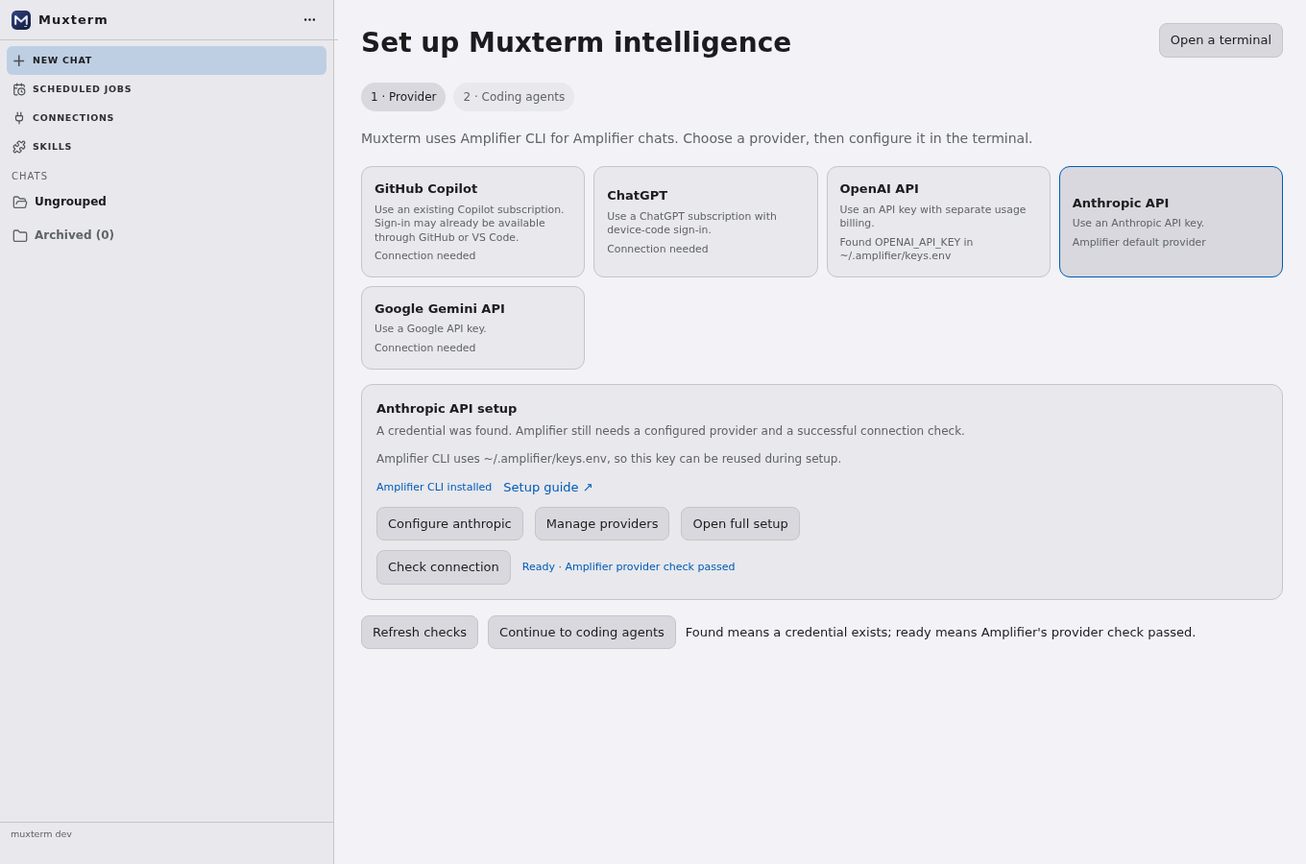
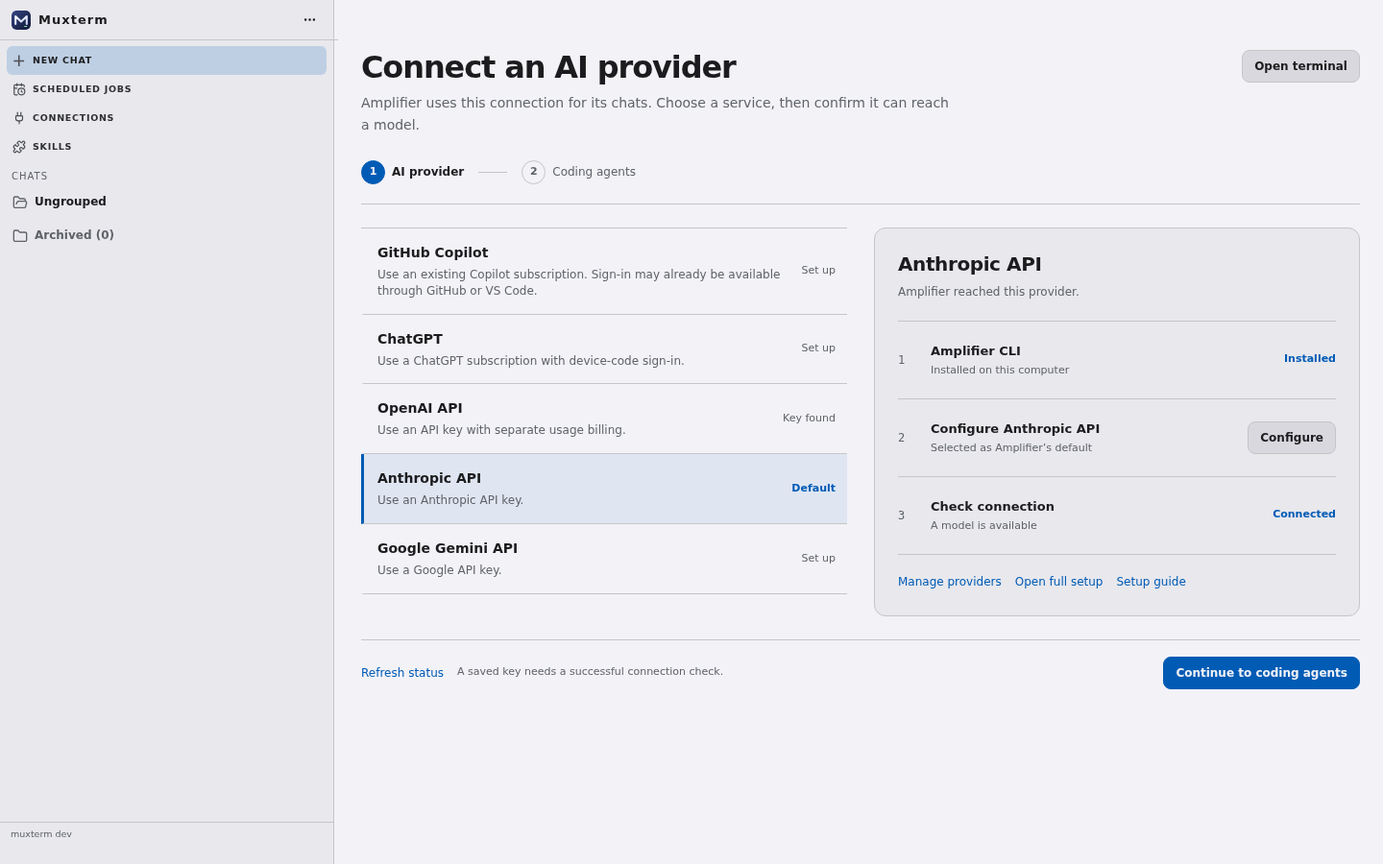
Refine first-run screens as a setup workbench

diff --git a/web/src/components/mux-new-chat.ts b/web/src/components/mux-new-chat.ts
@@ -21,9 +21,9 @@ const AI_PROVIDERS = [
 const SETUP_AGENTS = [
   { harness:'codex', name:'Codex', command:'curl -fsSL https://chatgpt.com/codex/install.sh | sh', login:'codex login', docs:'https://learn.chatgpt.com/docs/codex/cli' },
   { harness:'claude', name:'Claude Code', command:'curl -fsSL https://claude.ai/install.sh | bash', login:'claude', docs:'https://code.claude.com/docs/en/setup' },
-  { harness:'opencode', name:'OpenCode · ACP', command:'curl -fsSL https://opencode.ai/install | bash', login:'opencode auth login', docs:'https://opencode.ai/docs/' },
-  { harness:'pi', name:'Pi · ACP', command:'npm install -g @mariozechner/pi-coding-agent pi-acp', login:'pi', docs:'https://github.com/svkozak/pi-acp' },
-  { harness:'deepseek', name:'DeepSeek Harness · ACP', command:'npm install -g @deepseek-ai/dsh', login:'dsh web', docs:'https://github.com/deepseek-ai/deepseek-harness' },
+  { harness:'opencode', name:'OpenCode', command:'curl -fsSL https://opencode.ai/install | bash', login:'opencode auth login', docs:'https://opencode.ai/docs/' },
+  { harness:'pi', name:'Pi', command:'npm install -g @mariozechner/pi-coding-agent pi-acp', login:'pi', docs:'https://github.com/svkozak/pi-acp' },
+  { harness:'deepseek', name:'DeepSeek Harness', command:'npm install -g @deepseek-ai/dsh', login:'dsh web', docs:'https://github.com/deepseek-ai/deepseek-harness' },
   { harness:'amplifier', name:'Amplifier CLI', command:'export PATH="$HOME/.local/bin:$PATH"; command -v uv >/dev/null 2>&1 || curl -LsSf https://astral.sh/uv/install.sh | sh; uv tool install git+https://github.com/microsoft/amplifier', login:'export PATH="$HOME/.local/bin:$PATH"; amplifier init', docs:'https://github.com/microsoft/amplifier/blob/main/docs/USER_ONBOARDING.md' },
 ] as const;
 type Attachment = { localId: string; file: File; id?: string; kind?: string; preview?: string; uploading: boolean; error?: string };
@@ -94,10 +94,6 @@ export class MuxNewChat extends LitElement {
     .utility-drawer > header button { border:0; border-radius:6px; padding:3px 8px; background:transparent; color:var(--chrome-text-bright); }
     .utility-drawer > header button:hover { background:var(--chrome-hover); }
     .utility-drawer mux-sdk-utility { flex:1; min-height:0; }
-    .setup-heading { display:flex; align-items:start; justify-content:space-between; gap:14px; }
-    .setup-heading .setup-refresh { flex:none; margin:0; }
-    .setup-explain { max-width:760px; margin:0 0 17px; padding:10px 12px; border-radius:9px; background:var(--chrome-bar); color:var(--chrome-text-dim); font-size:12px; }
-    .setup-explain strong { color:var(--chrome-text-bright); }
     .composer-tools { display:flex; justify-content:flex-end; width:min(100%,780px); margin:0 0 12px; }
     .composer-tools button { padding:7px 11px; border:1px solid var(--chrome-border); border-radius:8px; background:var(--chrome-bar); color:var(--chrome-text-bright); }
     .main { flex:1; min-height:0; display:flex; flex-direction:column; justify-content:center; align-items:center; padding:24px; overflow:auto; }
@@ -174,34 +170,69 @@ export class MuxNewChat extends LitElement {
     .send:focus-visible { outline:2px solid var(--chrome-accent,#9bb8f7); outline-offset:2px; }
     .send:disabled { opacity:.4; cursor:default; }
     .error { margin:10px 0; color:var(--chrome-danger); }
-    .setup-intro { margin:0 0 18px; color:var(--chrome-text-dim); font-size:14px; }
-    .setup-steps { display:flex; gap:8px; margin:0 0 18px; color:var(--chrome-text-dim); font-size:12px; }
-    .setup-steps span { padding:6px 10px; border-radius:999px; background:var(--chrome-bar); }
-    .setup-steps .current { background:var(--chrome-hover); color:var(--chrome-text-bright); }
-    .provider-list { display:grid; grid-template-columns:repeat(auto-fit,minmax(220px,1fr)); gap:9px; }
-    .provider-choice { width:100%; padding:13px; border:1px solid var(--chrome-border); border-radius:11px; background:var(--chrome-bar); color:var(--chrome-text-bright); text-align:left; }
-    .provider-choice[aria-pressed="true"] { border-color:var(--chrome-accent); background:var(--chrome-hover); }
-    .provider-choice strong,.provider-choice small { display:block; }
-    .provider-choice small { margin-top:5px; color:var(--chrome-text-dim); line-height:1.35; }
-    .provider-setup { margin-top:15px; padding:15px; border:1px solid var(--chrome-border); border-radius:12px; background:var(--chrome-bar); }
-    .provider-setup p { margin:5px 0 11px; color:var(--chrome-text-dim); font-size:12px; }
-    .provider-setup input { max-width:450px; margin:6px 0; }
-    .provider-setup .setup-actions { flex-wrap:wrap; }
-    .setup-list { display:grid; grid-template-columns:repeat(auto-fit,minmax(280px,1fr)); gap:10px; }
-    .setup-card { padding:15px; border:1px solid var(--chrome-border); border-radius:13px; background:var(--chrome-bar); }
-    .setup-card h2 { margin:0 0 8px; font-size:15px; }
-    .setup-card-heading { display:flex; align-items:center; justify-content:space-between; gap:8px; }
-    .setup-status { flex:none; color:var(--chrome-text-dim); font-size:11px; }
-    .setup-status.ready { color:var(--chrome-accent); }
-    .setup-card code { display:block; min-height:42px; padding:8px; border-radius:7px; overflow-wrap:anywhere; background:var(--chrome-body); color:var(--chrome-text-bright); font:12px/1.45 ui-monospace,SFMono-Regular,monospace; }
-    .setup-card p { margin:9px 0; color:var(--chrome-text-dim); font-size:12px; }
-    .setup-actions { display:flex; align-items:center; gap:12px; margin-top:10px; }
-    .setup-footer { display:flex; flex-wrap:wrap; gap:10px; align-items:center; margin-top:16px; }
-    .setup-actions button,.setup-refresh { padding:7px 11px; border:1px solid var(--chrome-border); border-radius:8px; background:var(--chrome-hover); color:var(--chrome-text-bright); }
-    .setup-actions button:disabled,.setup-refresh:disabled { opacity:.45; cursor:default; }
-    .setup-actions a { color:var(--chrome-accent); text-decoration:none; }
-    .setup-refresh { margin-top:16px; }
-    .setup-footer .setup-refresh { margin-top:0; }
+    .setup-shell { max-width:1080px; margin:28px auto 34px; }
+    .setup-header { display:flex; align-items:flex-start; justify-content:space-between; gap:24px; margin-bottom:26px; }
+    .setup-header h1 { margin:0 0 8px; font-size:32px; font-weight:650; letter-spacing:-.035em; line-height:1.13; }
+    .setup-lead { max-width:620px; margin:0; color:var(--chrome-text-dim); font-size:14px; line-height:1.6; }
+    .setup-progress { display:flex; align-items:center; gap:15px; padding:0 0 20px; margin-bottom:24px; border-bottom:1px solid var(--chrome-border); color:var(--chrome-text-dim); font-size:12px; }
+    .setup-progress span { display:inline-flex; align-items:center; gap:7px; }
+    .setup-progress b { display:grid; place-items:center; width:23px; height:23px; border:1px solid var(--chrome-border); border-radius:50%; font-size:11px; font-weight:600; }
+    .setup-progress .current { color:var(--chrome-text-bright); font-weight:600; }
+    .setup-progress .current b,.setup-progress .done b { border-color:var(--chrome-accent); background:var(--chrome-accent); color:var(--chrome-body); }
+    .setup-progress i { width:30px; height:1px; background:var(--chrome-border); }
+    .setup-action { display:inline-flex; align-items:center; justify-content:center; min-height:34px; padding:7px 12px; border:1px solid var(--chrome-border); border-radius:8px; background:var(--chrome-hover); color:var(--chrome-text-bright); font-size:12px; font-weight:550; white-space:nowrap; }
+    .setup-action:hover:not(:disabled) { border-color:var(--chrome-accent); }
+    .setup-action:focus-visible,.provider-choice:focus-visible,.setup-link:focus-visible { outline:2px solid var(--chrome-accent); outline-offset:2px; }
+    .setup-action:disabled { opacity:.5; cursor:default; }
+    .setup-action.primary { border-color:var(--chrome-accent); background:var(--chrome-accent); color:var(--chrome-body); font-weight:650; }
+    .setup-link { padding:4px 0; border:0; background:transparent; color:var(--chrome-accent); font-size:12px; text-decoration:none; }
+    .setup-link:hover { text-decoration:underline; }
+    .provider-workspace { display:grid; grid-template-columns:repeat(auto-fit,minmax(min(100%,330px),1fr)); gap:28px; align-items:start; }
+    .provider-workspace.compact { grid-template-columns:minmax(0,1fr); gap:14px; }
+    .provider-picker { display:flex; align-items:center; gap:12px; color:var(--chrome-text-dim); font-size:12px; }
+    .provider-picker select { width:min(100%,280px); height:34px; }
+    .provider-browser { border-top:1px solid var(--chrome-border); }
+    .provider-choice { display:grid; grid-template-columns:minmax(0,1fr) auto; gap:4px 12px; align-items:center; width:100%; padding:15px 12px 15px 14px; border:0; border-bottom:1px solid var(--chrome-border); border-left:3px solid transparent; border-radius:0; background:transparent; color:var(--chrome-text-bright); text-align:left; }
+    .provider-choice:hover { background:color-mix(in srgb,var(--chrome-accent) 5%,var(--chrome-body)); }
+    .provider-choice[aria-pressed="true"] { border-left-color:var(--chrome-accent); background:color-mix(in srgb,var(--chrome-accent) 8%,var(--chrome-body)); }
+    .provider-choice strong { font-size:14px; font-weight:620; }
+    .provider-choice .detail { grid-column:1; color:var(--chrome-text-dim); font-size:12px; line-height:1.4; }
+    .provider-choice .provider-status { grid-column:2; grid-row:1 / 3; max-width:115px; color:var(--chrome-text-dim); font-size:11px; line-height:1.3; text-align:right; }
+    .provider-choice .provider-status.active { color:var(--chrome-accent); font-weight:650; }
+    .provider-setup { box-sizing:border-box; min-height:365px; padding:22px 24px; border:1px solid var(--chrome-border); border-radius:12px; background:var(--chrome-bar); }
+    .provider-setup h2 { margin:0 0 5px; font-size:20px; font-weight:650; letter-spacing:-.02em; }
+    .provider-setup p { max-width:58ch; margin:5px 0 12px; color:var(--chrome-text-dim); font-size:12px; line-height:1.55; }
+    .provider-setup .provider-note { margin:0 0 13px; }
+    .setup-sequence { margin-top:20px; border-top:1px solid var(--chrome-border); }
+    .sequence-row { display:grid; grid-template-columns:22px minmax(0,1fr) auto; gap:12px; align-items:center; min-height:58px; padding:11px 0; border-bottom:1px solid var(--chrome-border); }
+    .sequence-row .number { color:var(--chrome-text-dim); font:12px ui-monospace,SFMono-Regular,monospace; }
+    .sequence-row strong { display:block; font-size:13px; font-weight:600; }
+    .sequence-row small { display:block; margin-top:2px; color:var(--chrome-text-dim); font-size:11px; line-height:1.4; }
+    .sequence-row .setup-status { text-align:right; }
+    .provider-tools { display:flex; flex-wrap:wrap; gap:14px; align-items:center; margin-top:15px; }
+    .provider-tools a { color:var(--chrome-accent); font-size:12px; text-decoration:none; }
+    .provider-tools a:hover { text-decoration:underline; }
+    .setup-status { color:var(--chrome-text-dim); font-size:11px; }
+    .setup-status.ready { color:var(--chrome-accent); font-weight:650; }
+    .setup-footer { display:flex; flex-wrap:wrap; align-items:center; gap:14px; margin-top:24px; padding-top:17px; border-top:1px solid var(--chrome-border); }
+    .setup-footer .next { margin-left:auto; }
+    .setup-footer .hint { color:var(--chrome-text-dim); font-size:11px; }
+    .setup-list { display:flex; flex-direction:column; border-top:1px solid var(--chrome-border); }
+    .setup-card { display:grid; grid-template-columns:minmax(0,1fr) auto; gap:10px 20px; align-items:center; padding:17px 4px; border-bottom:1px solid var(--chrome-border); }
+    .setup-card-heading { display:flex; align-items:baseline; gap:12px; }
+    .setup-card h2 { margin:0; font-size:15px; font-weight:620; }
+    .setup-card p { max-width:70ch; margin:4px 0 0; color:var(--chrome-text-dim); font-size:12px; line-height:1.45; }
+    .setup-card .setup-actions { display:flex; align-items:center; gap:12px; margin:0; }
+    .setup-card .setup-actions a { color:var(--chrome-accent); font-size:12px; text-decoration:none; white-space:nowrap; }
+    .setup-card .setup-actions a:hover { text-decoration:underline; }
+    .setup-card details { margin-top:5px; color:var(--chrome-text-dim); font-size:11px; }
+    .setup-card details summary { width:fit-content; cursor:pointer; }
+    .setup-card code { display:block; max-width:70ch; margin-top:5px; overflow-wrap:anywhere; color:var(--chrome-text-bright); font:11px/1.5 ui-monospace,SFMono-Regular,monospace; }
+    .layout.with-utility .setup-header h1 { font-size:28px; }
+    .layout.with-utility .setup-card { grid-template-columns:1fr; }
+    .layout.with-utility .setup-card .setup-actions { justify-content:flex-start; }
+    @media(max-width:860px) { .setup-shell { margin-top:10px; } .setup-header h1 { font-size:27px; } .setup-card { grid-template-columns:1fr; } .setup-card .setup-actions { justify-content:flex-start; } }
+    @media(max-width:560px) { .provider-setup { padding:17px; } .sequence-row { grid-template-columns:18px minmax(0,1fr); } .sequence-row > :last-child { grid-column:2; justify-self:start; } .setup-header { gap:10px; } .setup-header .setup-action { padding:5px 7px; white-space:normal; } }
     .receipt { display:flex; align-items:center; gap:8px; margin:12px 2px 0; color:var(--chrome-text-dim,#a9b0c0); font-size:12px; }
     .receipt::before { content:''; width:7px; height:7px; border-radius:50%; background:var(--chrome-accent,#9bb8f7); animation:receipt-pulse 1.35s ease-in-out infinite; }
     @keyframes receipt-pulse { 50% { opacity:.35; transform:scale(.7); } }
@@ -348,31 +379,44 @@ export class MuxNewChat extends LitElement {
       if (this.isConnected && this.chosenAIProvider === provider) this.providerCheckError = error instanceof Error ? error.message : String(error);
     } finally { this.providerCheckBusy = false; }
   }
+  private chooseAIProvider(provider: string) {
+    this.chosenAIProvider = provider;
+    this.providerError = '';
+    this.providerChecked = '';
+    this.providerCheckError = '';
+  }
   private renderProviderSetup(): TemplateResult {
     const setup = this.amplifierProviderSetup;
     const selected = setup?.providers.find(provider => provider.id === this.chosenAIProvider);
-    return this.renderScreen(html`<div class="main setup"><div class="content">
-      <div class="setup-heading"><h1>${this.firstRun ? 'Set up Muxterm intelligence' : 'Amplifier provider'}</h1><button class="setup-refresh" @click=${() => void this.openTerminal()}>Open a terminal</button></div>
-      ${this.firstRun ? html`<div class="setup-steps"><span class="current">1 · Provider</span><span>2 · Coding agents</span></div>` : nothing}
-      <p class="setup-intro">Muxterm uses Amplifier CLI for Amplifier chats. Choose a provider, then configure it in the terminal.</p>
-      <div class="provider-list">${AI_PROVIDERS.map(provider => {
-        const state = setup?.providers.find(item => item.id === provider.id);
-        return html`<button class="provider-choice" aria-pressed=${this.chosenAIProvider === provider.id} @click=${() => { this.chosenAIProvider = provider.id; this.providerError = ''; this.providerChecked = ''; this.providerCheckError = ''; }}><strong>${provider.name}</strong><small>${provider.detail}</small><small>${setup?.primary === provider.id ? 'Amplifier default provider' : state?.source === 'environment' ? `Found ${state.envName} in Muxterm's environment` : state?.source === 'amplifier-keys' ? `Found ${state.envName} in ~/.amplifier/keys.env` : state?.source === 'oauth-cache' ? 'ChatGPT sign-in cache found' : 'Connection needed'}</small></button>`;
-      })}</div>
-      <div class="provider-setup">
-        <strong>${AI_PROVIDERS.find(provider => provider.id === this.chosenAIProvider)?.name || 'Provider'} setup</strong>
-        ${!setup ? html`<p role="status">Checking local Amplifier setup…</p>` : html`
-          <p>${selected?.source ? 'A credential was found. Amplifier still needs a configured provider and a successful connection check.' : 'Configure this provider and complete its sign-in in the terminal.'}</p>
-          ${selected?.source === 'amplifier-keys' ? html`<p>Amplifier CLI uses ~/.amplifier/keys.env, so this key can be reused during setup.</p>` : nothing}
-          ${setup.primary && setup.primary !== this.chosenAIProvider ? html`<p>Amplifier currently starts with ${setup.primary}. Use provider management to make ${this.chosenAIProvider} the default.</p>` : nothing}
-          <div class="setup-actions"><span class="setup-status ${setup.cliInstalled ? 'ready' : ''}">Amplifier CLI ${setup.cliInstalled ? 'installed' : 'needed'}</span>${!setup.cliInstalled ? html`<button @click=${() => void this.openTerminal('Install Amplifier CLI', SETUP_AGENTS.find(agent => agent.harness === 'amplifier')!.command)}>Install Amplifier CLI</button>` : nothing}<a href="https://github.com/microsoft/amplifier/blob/main/docs/USER_ONBOARDING.md" target="_blank" rel="noopener noreferrer">Setup guide ↗</a></div>
-          <div class="setup-actions"><button ?disabled=${!setup.cliInstalled} @click=${() => void this.openTerminal('Amplifier provider setup', `export PATH="$HOME/.local/bin:$PATH"; amplifier provider add ${this.chosenAIProvider} --scope global`)}>Configure ${this.chosenAIProvider}</button><button ?disabled=${!setup.cliInstalled} @click=${() => void this.openTerminal('Amplifier providers', 'export PATH="$HOME/.local/bin:$PATH"; amplifier provider manage')}>Manage providers</button><button ?disabled=${!setup.cliInstalled} @click=${() => void this.openTerminal('Amplifier setup', 'export PATH="$HOME/.local/bin:$PATH"; amplifier init')}>Open full setup</button></div>
-          <div class="setup-actions"><button ?disabled=${!setup.cliInstalled || this.providerCheckBusy} @click=${() => void this.checkAIProvider()}>${this.providerCheckBusy ? 'Checking provider…' : 'Check connection'}</button>${this.providerChecked === this.chosenAIProvider ? html`<span class="setup-status ready" role="status">Ready · Amplifier provider check passed</span>` : nothing}</div>
-          ${this.providerCheckError ? html`<p class="error" role="alert">${this.providerCheckError}</p>` : nothing}
-        `}
-        ${this.providerError ? html`<p class="error" role="alert">${this.providerError}</p>` : nothing}
+    const name = AI_PROVIDERS.find(provider => provider.id === this.chosenAIProvider)?.name || 'Provider';
+    const connected = this.providerChecked === this.chosenAIProvider;
+    return this.renderScreen(html`<div class="main setup"><div class="content setup-shell">
+      <header class="setup-header"><div><h1>${this.firstRun ? 'Connect an AI provider' : 'Amplifier provider'}</h1><p class="setup-lead">Amplifier uses this connection for its chats. Choose a service, then confirm it can reach a model.</p></div>${!this.utilityOpen ? html`<button class="setup-action" @click=${() => void this.openTerminal()}>Open terminal</button>` : nothing}</header>
+      ${this.firstRun ? html`<nav class="setup-progress" aria-label="Setup progress"><span class="current" aria-current="step"><b>1</b>AI provider</span><i aria-hidden="true"></i><span><b>2</b>Coding agents</span></nav>` : nothing}
+      <div class="provider-workspace ${this.utilityOpen ? 'compact' : ''}">
+        ${this.utilityOpen ? html`<label class="provider-picker">Provider<select aria-label="AI provider" .value=${this.chosenAIProvider} @change=${(event:Event) => this.chooseAIProvider((event.target as HTMLSelectElement).value)}>${AI_PROVIDERS.map(provider => html`<option value=${provider.id}>${provider.name}</option>`)}</select></label>` : html`<section class="provider-browser" aria-label="AI providers">${AI_PROVIDERS.map(provider => {
+          const state = setup?.providers.find(item => item.id === provider.id);
+          const isDefault = setup?.primary === provider.id;
+          const status = isDefault ? 'Default' : state?.source === 'environment' || state?.source === 'amplifier-keys' ? 'Key found' : state?.source === 'oauth-cache' ? 'Sign-in found' : 'Set up';
+          return html`<button class="provider-choice" aria-pressed=${this.chosenAIProvider === provider.id} @click=${() => this.chooseAIProvider(provider.id)}><strong>${provider.name}</strong><span class="detail">${provider.detail}</span><span class="provider-status ${isDefault ? 'active' : ''}">${status}</span></button>`;
+        })}</section>`}
+        <section class="provider-setup" aria-label=${`${name} setup`}>
+          <h2>${name}</h2>
+          ${!setup ? html`<p role="status">Checking Amplifier on this computer…</p>` : html`
+            <p class="provider-note">${connected ? 'Amplifier reached this provider.' : selected?.source === 'environment' ? `${selected.envName} is available in Muxterm’s environment.` : selected?.source === 'amplifier-keys' ? `${selected.envName} is in ~/.amplifier/keys.env. Amplifier can reuse it.` : selected?.source === 'oauth-cache' ? 'A previous ChatGPT sign-in was found.' : 'Complete setup in the terminal to connect this service.'}</p>
+            ${setup.primary && setup.primary !== this.chosenAIProvider ? html`<p>Amplifier currently starts with ${setup.primary}. Make ${this.chosenAIProvider} the default in provider management.</p>` : nothing}
+            <div class="setup-sequence">
+              <div class="sequence-row"><span class="number">1</span><div><strong>Amplifier CLI</strong><small>${setup.cliInstalled ? 'Installed on this computer' : 'Required for Amplifier chats'}</small></div>${setup.cliInstalled ? html`<span class="setup-status ready">Installed</span>` : html`<button class="setup-action" @click=${() => void this.openTerminal('Install Amplifier CLI', SETUP_AGENTS.find(agent => agent.harness === 'amplifier')!.command)}>Install</button>`}</div>
+              <div class="sequence-row"><span class="number">2</span><div><strong>Configure ${name}</strong><small>${setup.primary === this.chosenAIProvider ? 'Selected as Amplifier’s default' : 'Choose a model and sign in, if needed'}</small></div><button class="setup-action" ?disabled=${!setup.cliInstalled} @click=${() => void this.openTerminal('Amplifier provider setup', `export PATH="$HOME/.local/bin:$PATH"; amplifier provider add ${this.chosenAIProvider} --scope global`)}>Configure</button></div>
+              <div class="sequence-row"><span class="number">3</span><div><strong>Check connection</strong><small>${connected ? 'A model is available' : 'Ask Amplifier to list available models'}</small></div>${connected ? html`<span class="setup-status ready" role="status">Connected</span>` : html`<button class="setup-action" ?disabled=${!setup.cliInstalled || this.providerCheckBusy} @click=${() => void this.checkAIProvider()}>${this.providerCheckBusy ? 'Checking…' : 'Check'}</button>`}</div>
+            </div>
+            <div class="provider-tools"><button class="setup-link" ?disabled=${!setup.cliInstalled} @click=${() => void this.openTerminal('Amplifier providers', 'export PATH="$HOME/.local/bin:$PATH"; amplifier provider manage')}>Manage providers</button><button class="setup-link" ?disabled=${!setup.cliInstalled} @click=${() => void this.openTerminal('Amplifier setup', 'export PATH="$HOME/.local/bin:$PATH"; amplifier init')}>Open full setup</button><a href="https://github.com/microsoft/amplifier/blob/main/docs/USER_ONBOARDING.md" target="_blank" rel="noopener noreferrer">Setup guide</a></div>
+            ${this.providerCheckError ? html`<p class="error" role="alert">${this.providerCheckError}</p>` : nothing}
+          `}
+          ${this.providerError ? html`<p class="error" role="alert">${this.providerError}</p>` : nothing}
+        </section>
       </div>
-      <div class="setup-footer"><button class="setup-refresh" @click=${() => void this.loadAmplifierProviderSetup()}>Refresh checks</button>${this.firstRun ? html`<button class="setup-refresh" ?disabled=${this.providerChecked !== this.chosenAIProvider || (!!setup?.primary && setup.primary !== this.chosenAIProvider)} @click=${() => { this.setupStep = 'harness'; }}>Continue to coding agents</button>` : html`<button class="setup-refresh" @click=${() => { this.providerSettingsOpen = false; }}>Back to new chat</button>`}<span>Found means a credential exists; ready means Amplifier's provider check passed.</span></div>
+      <footer class="setup-footer"><button class="setup-link" @click=${() => void this.loadAmplifierProviderSetup()}>Refresh status</button><span class="hint">A saved key needs a successful connection check.</span>${this.firstRun ? html`<button class="setup-action primary next" ?disabled=${!connected || (!!setup?.primary && setup.primary !== this.chosenAIProvider)} @click=${() => { this.setupStep = 'harness'; }}>Continue to coding agents</button>` : html`<button class="setup-action primary next" @click=${() => { this.providerSettingsOpen = false; }}>Back to new chat</button>`}</footer>
     </div></div>`);
   }
   private async openTerminal(label?: string, command?: string) {
@@ -386,7 +430,7 @@ export class MuxNewChat extends LitElement {
     else utility.showPanel('terminal');
   }
   private renderScreen(content: TemplateResult): TemplateResult {
-    return html`<div class="layout">${content}${this.utilityOpen ? html`<aside class="utility-drawer" aria-label="Setup tools"><header><span>Tools · terminals stay with your chat</span><button aria-label="Close tools" @click=${() => { this.utilityOpen = false; }}>Close</button></header><mux-sdk-utility .sessionId=${this.draftId} .projectPath=${this.folder} .chatTitle=${'Setup'} .terminalWorkspaceId=${this.terminalWorkspaceId}></mux-sdk-utility></aside>` : nothing}</div>`;
+    return html`<div class="layout ${this.utilityOpen ? 'with-utility' : ''}">${content}${this.utilityOpen ? html`<aside class="utility-drawer" aria-label="Setup tools"><header><span>Tools · terminals stay with your chat</span><button aria-label="Close tools" @click=${() => { this.utilityOpen = false; }}>Close</button></header><mux-sdk-utility .sessionId=${this.draftId} .projectPath=${this.folder} .chatTitle=${'Setup'} .terminalWorkspaceId=${this.terminalWorkspaceId}></mux-sdk-utility></aside>` : nothing}</div>`;
   }
   private async loadOnboarding() {
     try {
@@ -484,23 +528,24 @@ export class MuxNewChat extends LitElement {
   }
   override render() {
     const selectedProject = sdkChats.projects.find(project => project.id === this.projectId);
-    if (!this.onboardingLoaded || (this.firstRun && this.setupStep === 'harness' && !this.optionsLoaded)) return this.renderScreen(html`<div class="main setup"><div class="content"><h1>Welcome to Muxterm</h1><p class="setup-intro" role="status">Checking your coding agents…</p></div></div>`);
-    if (this.onboardingError) return this.renderScreen(html`<div class="main setup"><div class="content"><h1>Welcome to Muxterm</h1><p class="error" role="alert">${this.onboardingError}</p><button class="setup-refresh" @click=${() => void this.loadOnboarding()}>Try again</button></div></div>`);
+    if (!this.onboardingLoaded || (this.firstRun && this.setupStep === 'harness' && !this.optionsLoaded)) return this.renderScreen(html`<div class="main setup"><div class="content setup-shell"><h1>Welcome to Muxterm</h1><p class="setup-lead" role="status">Checking your coding agents…</p></div></div>`);
+    if (this.onboardingError) return this.renderScreen(html`<div class="main setup"><div class="content setup-shell"><h1>Welcome to Muxterm</h1><p class="error" role="alert">${this.onboardingError}</p><button class="setup-action" @click=${() => void this.loadOnboarding()}>Try again</button></div></div>`);
     if ((this.firstRun && this.setupStep === 'provider') || this.providerSettingsOpen) return this.renderProviderSetup();
-    if (this.firstRun && !this.startOptions) return this.renderScreen(html`<div class="main setup"><div class="content"><h1>Welcome to Muxterm</h1><p class="error" role="alert">${this.error || 'Could not check coding agents.'}</p><button class="setup-refresh" @click=${() => void this.loadStartOptions()}>Try again</button></div></div>`);
+    if (this.firstRun && !this.startOptions) return this.renderScreen(html`<div class="main setup"><div class="content setup-shell"><h1>Welcome to Muxterm</h1><p class="error" role="alert">${this.error || 'Could not check coding agents.'}</p><button class="setup-action" @click=${() => void this.loadStartOptions()}>Try again</button></div></div>`);
     const showFirstRun = this.firstRun;
     if (this.startOptions && (showFirstRun || this.startOptions.length === 0)) return this.renderScreen(html`
-      <div class="main setup"><div class="content">
-        <div class="setup-heading"><h1>${showFirstRun ? 'Welcome to Muxterm' : 'Set up a coding agent'}</h1><button class="setup-refresh" @click=${() => void this.openTerminal()}>Open a terminal</button></div>
-        ${showFirstRun ? html`<div class="setup-steps"><span>1 · Provider</span><span class="current">2 · Coding agents</span></div><button class="setup-refresh" @click=${() => { this.setupStep = 'provider'; }}>Change provider</button>` : nothing}
-        <p class="setup-intro">Choose an agent to set up. Its install or sign-in command runs in the terminal beside these checks.</p>
-        <p class="setup-explain"><strong>Ready to use</strong> means Muxterm found the runtime and account setup it can check. <strong>Detected</strong> means an ACP command is present; its provider sign-in still needs your confirmation. Set up at least one coding agent after your general provider.</p>
-        <div class="setup-list">${SETUP_AGENTS.map(agent => html`
-          <section class="setup-card"><div class="setup-card-heading"><h2>${agent.name}</h2><span class="setup-status ${this.startOptions!.some(option => option.harness === agent.harness) ? 'ready' : ''}">${this.startOptions!.some(option => option.harness === agent.harness) ? agent.name.includes('ACP') ? 'Detected' : 'Ready to use' : agent.harness === 'codex' || agent.harness === 'claude' ? 'Sign-in needed' : 'Needs setup'}</span></div>
-            ${this.startOptions!.some(option => option.harness === agent.harness) ? html`<p>${agent.name.includes('ACP') ? 'Command found. Muxterm cannot verify its provider account; sign in if needed.' : agent.harness === 'amplifier' ? 'Amplifier CLI is configured and Muxterm can start its chats.' : 'Muxterm can start chats with this agent.'}</p>` : html`<code>${agent.command}</code><p>${agent.harness === 'codex' || agent.harness === 'claude' ? 'The SDK runtime is included. Install the CLI here only for interactive account sign-in; no separate SDK install is needed.' : agent.harness === 'amplifier' ? 'Install Amplifier CLI, then run its provider setup in the terminal.' : 'Install this ACP command, then connect its provider account.'}</p>`}
-            <div class="setup-actions">${this.startOptions!.some(option => option.harness === agent.harness) && !agent.name.includes('ACP') ? nothing : html`<button @click=${() => void this.openTerminal(`${agent.name} setup`, this.startOptions!.some(option => option.harness === agent.harness) ? agent.login : `${agent.command} && ${agent.login}`)}>${this.startOptions!.some(option => option.harness === agent.harness) ? 'Open sign-in terminal' : 'Install and sign in'}</button>`}<a href=${agent.docs} target="_blank" rel="noopener noreferrer">Setup guide ↗</a></div>
-          </section>`)}</div>
-        <div class="setup-footer"><button class="setup-refresh" @click=${() => void this.loadStartOptions()}>Refresh checks</button>${showFirstRun && this.startOptions.length ? html`<button class="setup-refresh" @click=${this.finishFirstRun}>Start using Muxterm</button>` : nothing}<span>Checks update automatically while you set up agents.</span></div>
+      <div class="main setup"><div class="content setup-shell">
+        <header class="setup-header"><div><h1>${showFirstRun ? 'Choose your coding agents' : 'Connect a coding agent'}</h1><p class="setup-lead">Install or sign in to the agents you want to use. Setup opens in a terminal beside this screen.</p></div>${!this.utilityOpen ? html`<button class="setup-action" @click=${() => void this.openTerminal()}>Open terminal</button>` : nothing}</header>
+        ${showFirstRun ? html`<nav class="setup-progress" aria-label="Setup progress"><span class="done"><b>✓</b>AI provider</span><i aria-hidden="true"></i><span class="current" aria-current="step"><b>2</b>Coding agents</span></nav>` : nothing}
+        <p class="setup-lead">${this.startOptions.length} of ${SETUP_AGENTS.length} agents found. <strong>Ready</strong> means Muxterm can start a chat. <strong>Detected</strong> means an ACP command exists; sign-in still needs confirmation.</p>
+        <div class="setup-list">${SETUP_AGENTS.map(agent => {
+          const found = this.startOptions!.some(option => option.harness === agent.harness);
+          const acp = agent.harness === 'opencode' || agent.harness === 'pi' || agent.harness === 'deepseek';
+          const status = found ? acp ? 'Detected' : 'Ready' : agent.harness === 'codex' || agent.harness === 'claude' ? 'Sign-in needed' : 'Needs setup';
+          const detail = found ? acp ? 'Command found. Sign in before the first chat.' : agent.harness === 'amplifier' ? 'Ready for Amplifier chats.' : 'Ready for new chats.' : agent.harness === 'codex' || agent.harness === 'claude' ? 'The SDK is included. Sign in with the CLI to use your account.' : agent.harness === 'amplifier' ? 'Install the CLI, then configure a provider.' : 'Install the command and connect its account.';
+          return html`<section class="setup-card"><div><div class="setup-card-heading"><h2>${agent.name}</h2><span class="setup-status ${found && !acp ? 'ready' : ''}">${status}</span></div><p>${detail}</p>${!found ? html`<details><summary>Show install command</summary><code>${agent.command}</code></details>` : nothing}</div><div class="setup-actions">${found && !acp ? nothing : html`<button class="setup-action" @click=${() => void this.openTerminal(`${agent.name} setup`, found ? agent.login : `${agent.command} && ${agent.login}`)}>${found ? 'Open sign-in terminal' : 'Install and sign in'}</button>`}<a href=${agent.docs} target="_blank" rel="noopener noreferrer">Setup guide</a></div></section>`;
+        })}</div>
+        <footer class="setup-footer">${showFirstRun ? html`<button class="setup-link" @click=${() => { this.setupStep = 'provider'; }}>Back to provider</button>` : nothing}<button class="setup-link" @click=${() => void this.loadStartOptions()}>Refresh status</button><span class="hint">Checks refresh automatically while setup is open.</span>${showFirstRun && this.startOptions.length ? html`<button class="setup-action primary next" @click=${this.finishFirstRun}>Start using Muxterm</button>` : nothing}</footer>
         ${this.error ? html`<div class="error" role="alert">${this.error}</div>` : nothing}
       </div></div>`);
     return this.renderScreen(html`
